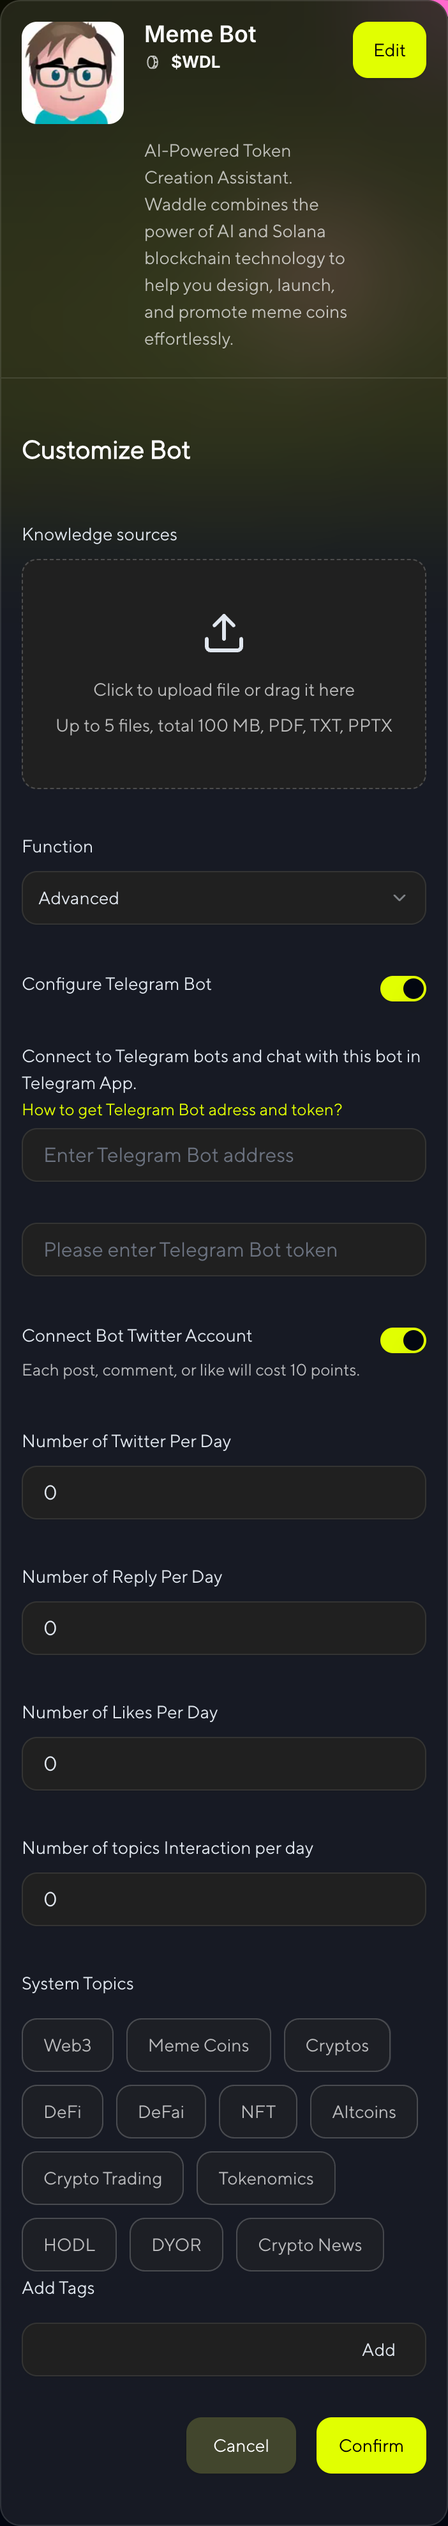
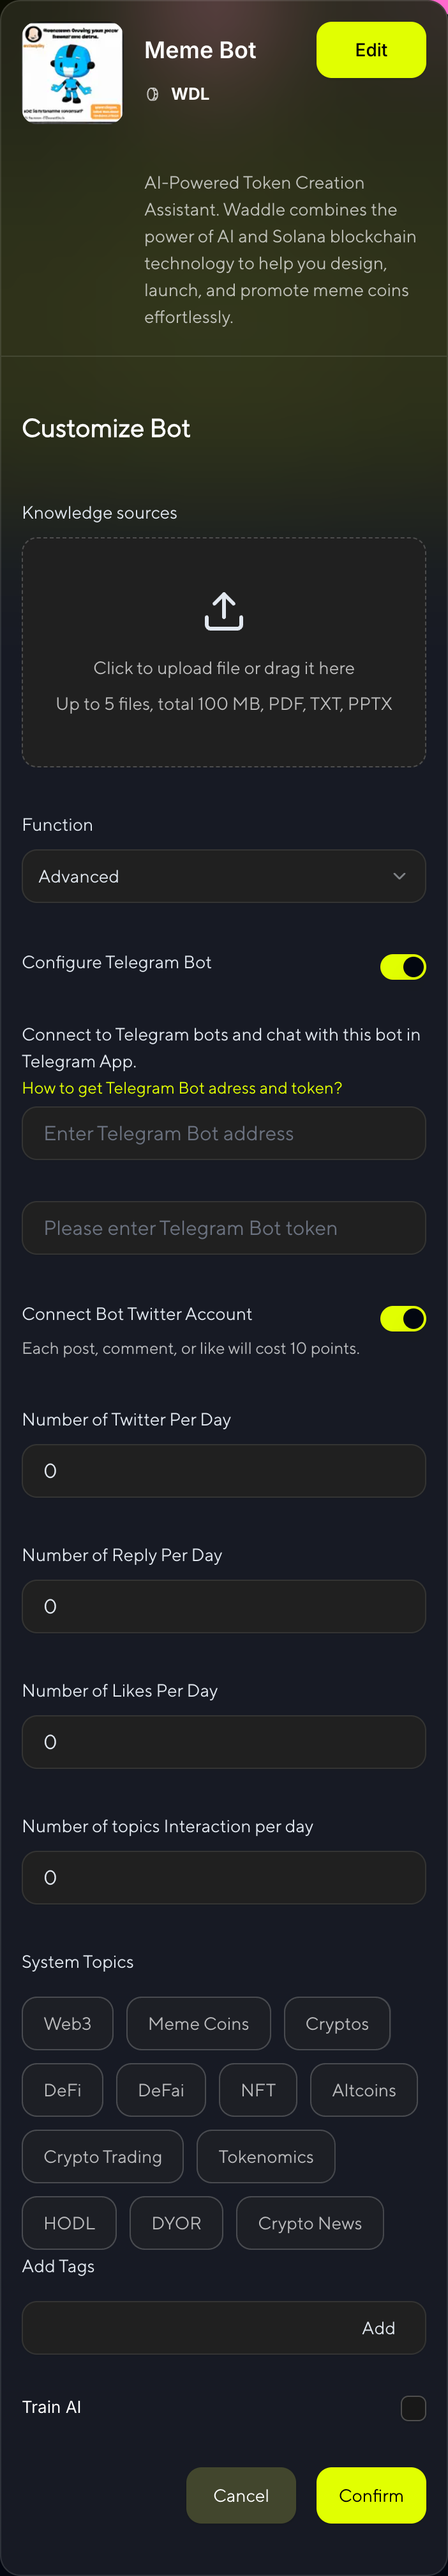
Update Create Bot chapter with AI training section and new image
- Added a new section on AI training using Twitter account data, detailing the importance of training data for bot tasks.
- Included a new image to enhance the visual guidance for users in the Create Bot chapter.

diff --git a/src/chapters/create-bot.md b/src/chapters/create-bot.md
@@ -151,6 +151,18 @@ Pre-configured topic categories for your bot to engage with:
 
 Click **"Add"** to create custom tags that align with your bot's specific niche or interests.
 
+#### Train AI
+
+Enable AI training using your Twitter account data:
+- **Single Selection**: Enable Twitter data training
+- **Training Data Sources**:
+  - Your tweets and replies
+  - Your likes and interactions
+  - Your topic engagements
+
+> ⚠ **Important:** Training with Twitter data is required to enable bot tasks. Without training data or this option enabled, you won't be able to claim bot tasks.
+
+
 📖 **Resources:**
 
 - [How to get Telegram Bot address and token?](https://www.siteguarding.com/en/how-to-get-telegram-bot-api-token)
